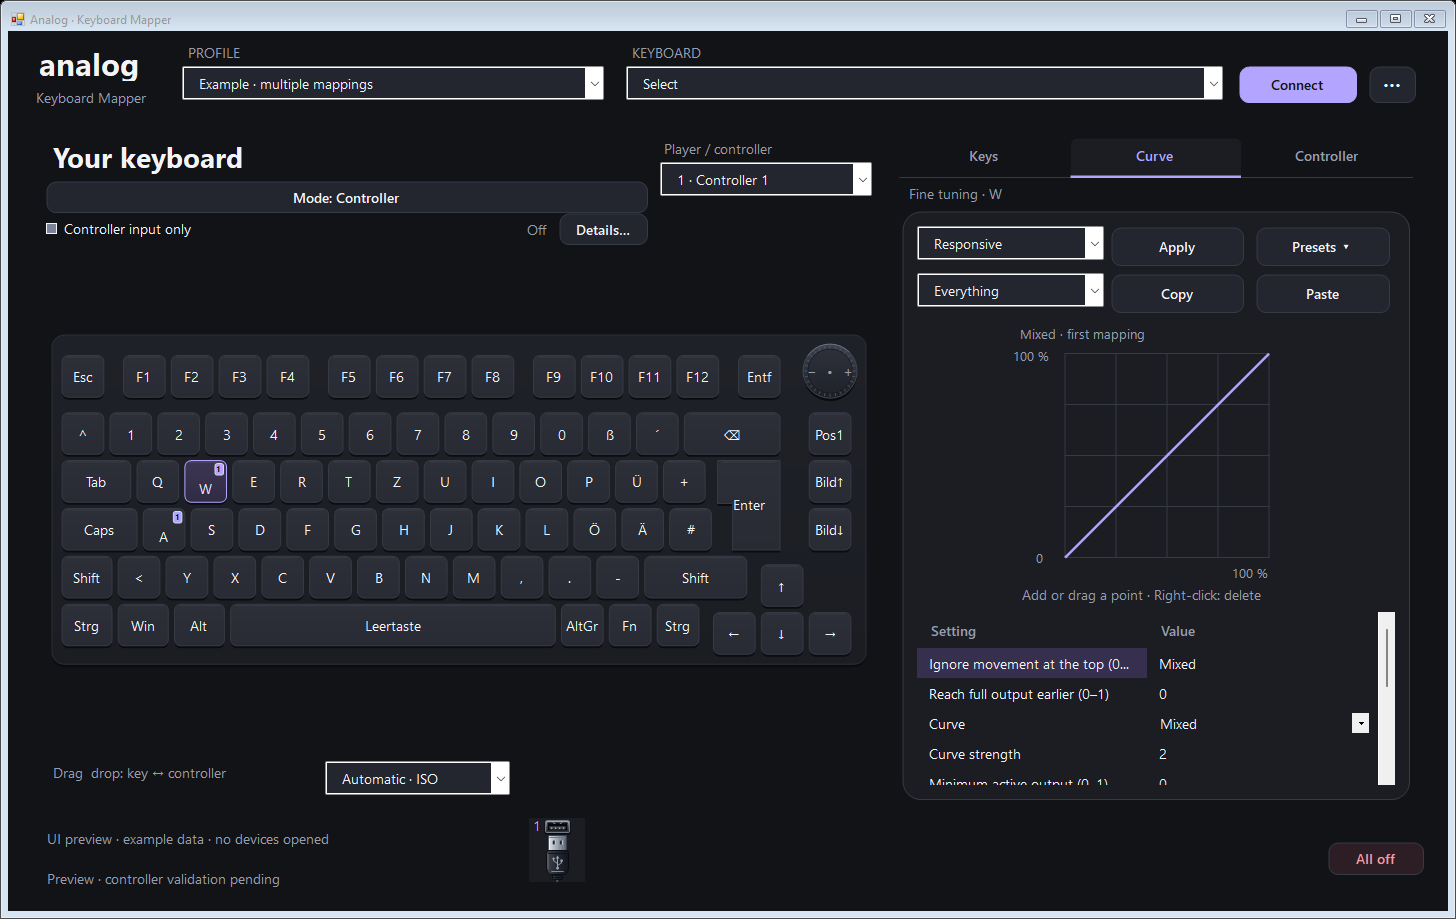
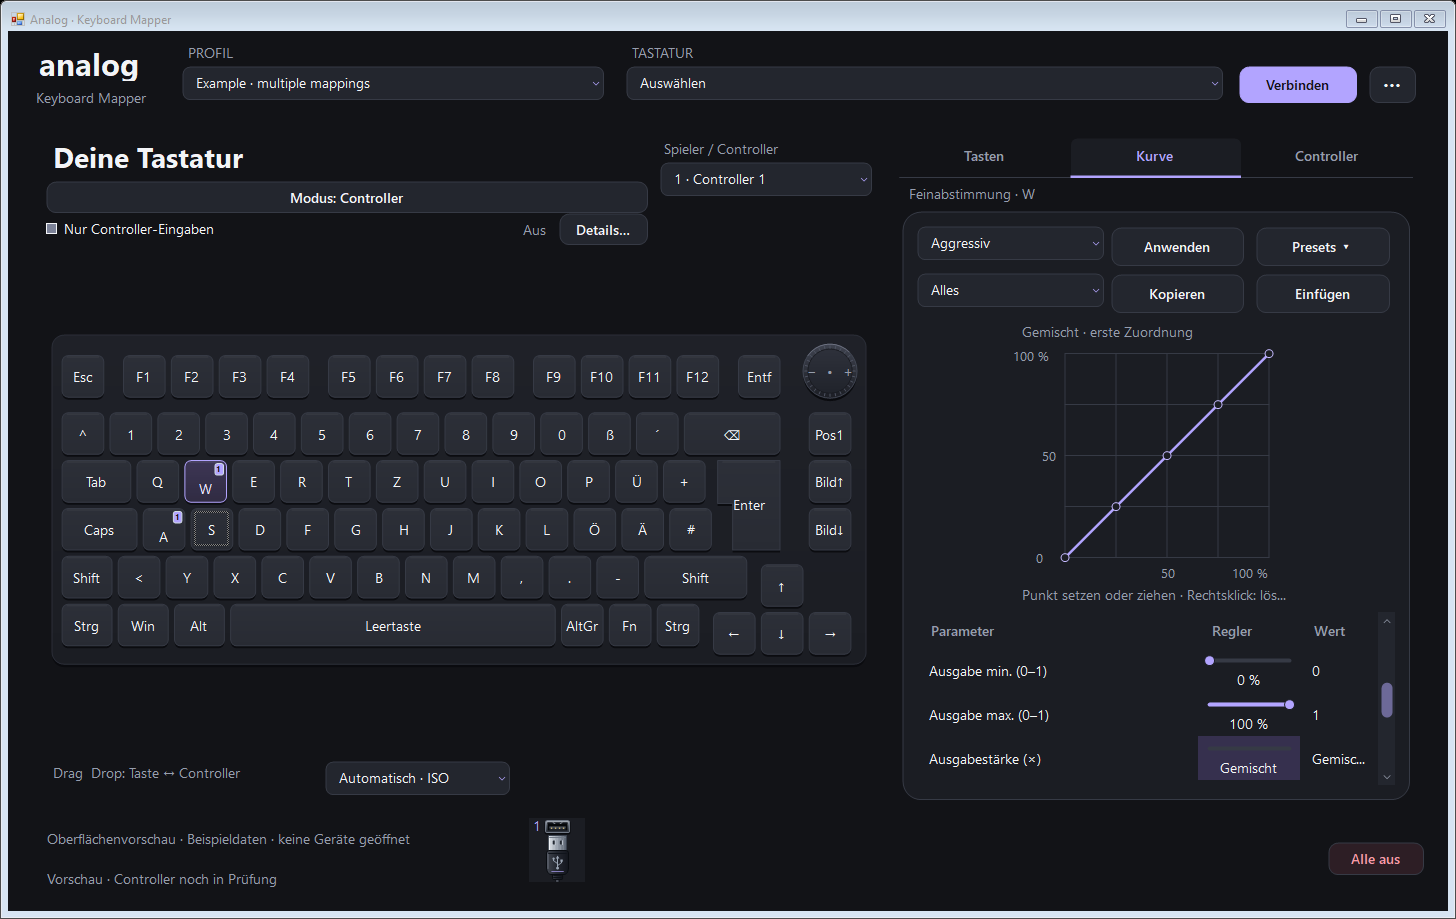
Refresh rc.6 screenshots and keep development credit in acknowledgements

diff --git a/docs/user-guide.md b/docs/user-guide.md
@@ -67,7 +67,7 @@ With several keys selected, signal settings, curves and presets apply to all the
 
 The output list in **Keys** outlines its selected row even when the list has only one entry. Its **Response** column summarizes each output's curve and changed signal settings; hover the summary for the complete values. The line below the buttons separately summarizes behavior shared by all outputs of the physical key.
 
-![Keys tab with outlined output rows and separate response summaries](images/mapping.png)
+![Keys tab with individual pressure ranges, outlined output rows and response summaries](images/mapping.png)
 
 **Behavior** under Keys controls Rapid Trigger and opposite-key handling (SOCD). These belong to physical keys and are shared by their mappings. Mixed values are marked; editing one field preserves the others. With two selected keys, you can pair them explicitly and choose neutral, first-pressed or last-pressed resolution. Larger selections retain existing pairs and do not offer pair editing.
 
@@ -75,9 +75,13 @@ The vertical controls beside the numeric fields adjust initial actuation, releas
 
 Each threshold also has **Calibrate**: press one selected key as far as desired, then release it completely to accept the measured value for the selection. For Rapid Trigger, the measured distance becomes the release or repress movement amount. This changes only that behavior setting; it does not recalibrate the key's Min/Max range or the keyboard scale.
 
+![Actuation, release and repress controls with a Calibrate button for each option](images/key-behavior.png)
+
 In **Curve**, sliders accompany the editable numbers for deadzones, output range, scale, smoothing and the other response options. A drag previews the curve and becomes one undoable edit when released. Hover a setting or curve point for its explanation or coordinates. Edits apply to all selected keys for the current controller.
 
 To capture an opposite key, select the first key and open **Behavior**, then click **Capture**. Click the desired opposite key on the keyboard illustration. This pairs both keys, keeps the original key's SOCD policy and preserves their actuation settings. Existing partners are unpaired; **Undo** restores the previous pairings. **Cancel** or **Escape** cancels capture. Dragging a key continues to open **Controller** for normal output mapping.
+
+![Opposite-key capture waiting for a keyboard selection, with Cancel available](images/socd-opposite-drop.png)
 
 ## Profiles and saved data
 

diff --git a/README.md b/README.md
@@ -46,15 +46,27 @@ Profiles support **up to 32 controller slots**, subject to Windows' limit of **f
 The earlier hardware test covered **two Xbox plus two DualSense devices** and wired TK75 TMR model 3591 input. It does not validate the current release candidate or 32 connected devices. Final hardware and game acceptance remains open. [Compatibility and test status](docs/status.md) · [Hardware record](docs/multi-controller-acceptance.md) · [Synthetic performance measurements](docs/performance.md).
 
 <details>
-<summary>Key settings and response-curve views</summary>
+<summary>Key settings, calibration and response curves</summary>
 
-![Keyboard assignments and the Keys tab](docs/images/mapping.png)
+Individual pressure ranges and output assignments:
 
-![Square response-curve editor beside the unchanged keyboard layout](docs/images/response-curve.png)
+![Keys tab with individual pressure ranges and output assignments](docs/images/mapping.png)
+
+Actuation and Rapid Trigger controls, each with its own Calibrate button:
+
+![Vertical actuation, release and repress controls with per-option calibration](docs/images/key-behavior.png)
+
+Response settings with sliders and a square curve editor:
+
+![Response sliders and square curve editor beside the keyboard](docs/images/response-curve.png)
+
+Capture an opposite key directly on the keyboard:
+
+![Opposite-key capture in the Keys behavior panel](docs/images/socd-opposite-drop.png)
 
 </details>
 
-Screenshots use example data; no hardware is connected in these images.
+Screenshots use synthetic example data and show English and German interfaces. English is the default language.
 
 ## Contributing and license
 
@@ -62,4 +74,4 @@ Bug reports, reproducible tests and focused improvements are welcome. See [Contr
 
 The application is free to use. The original mapper code is available under the [MIT License](LICENSE). The VIIPER-derived output helper and other third-party components retain their own licenses; see [the helper notice](src/ViiperOutputHost/NOTICE.md) and [cursor license](src/App/Assets/Cursors/LICENSE).
 
-Developed with **ChatGPT**, with iterative testing and user feedback.
+Created with assistance from ChatGPT and refined through testing and user feedback.
